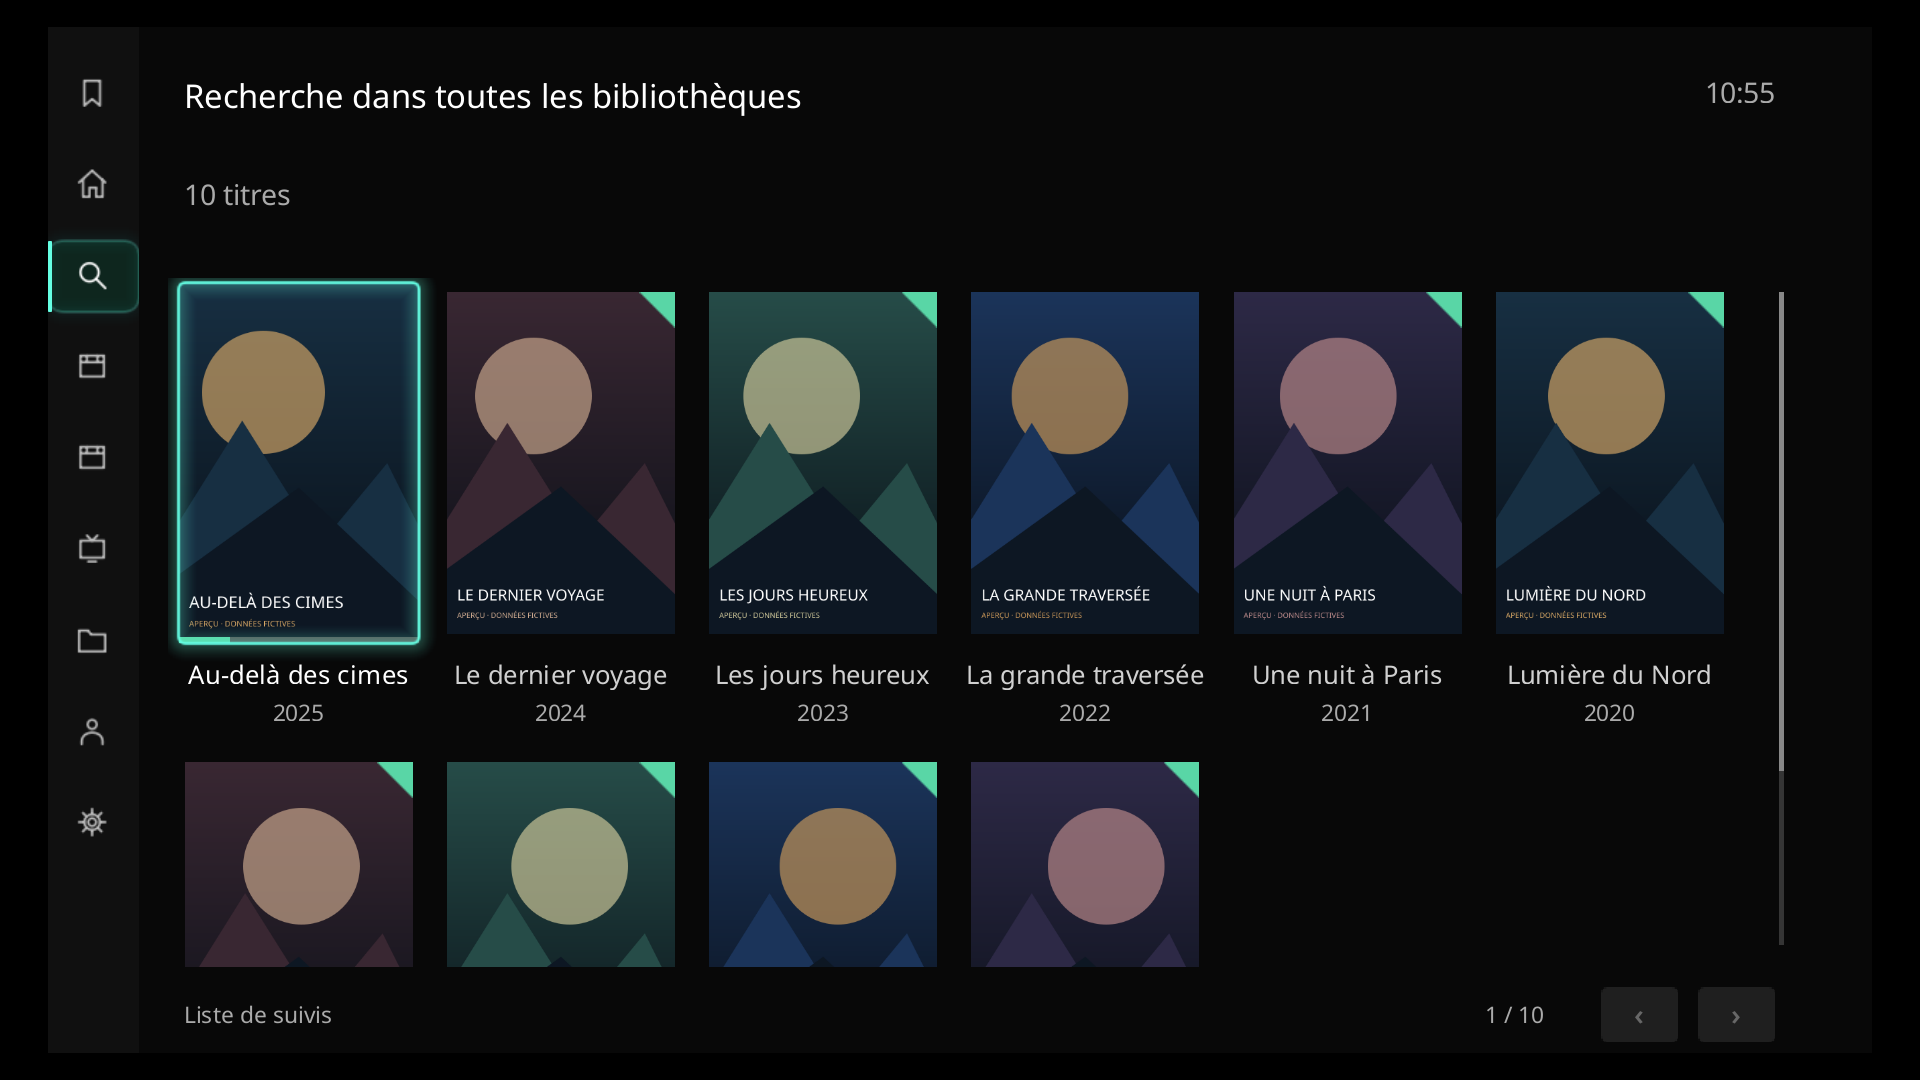
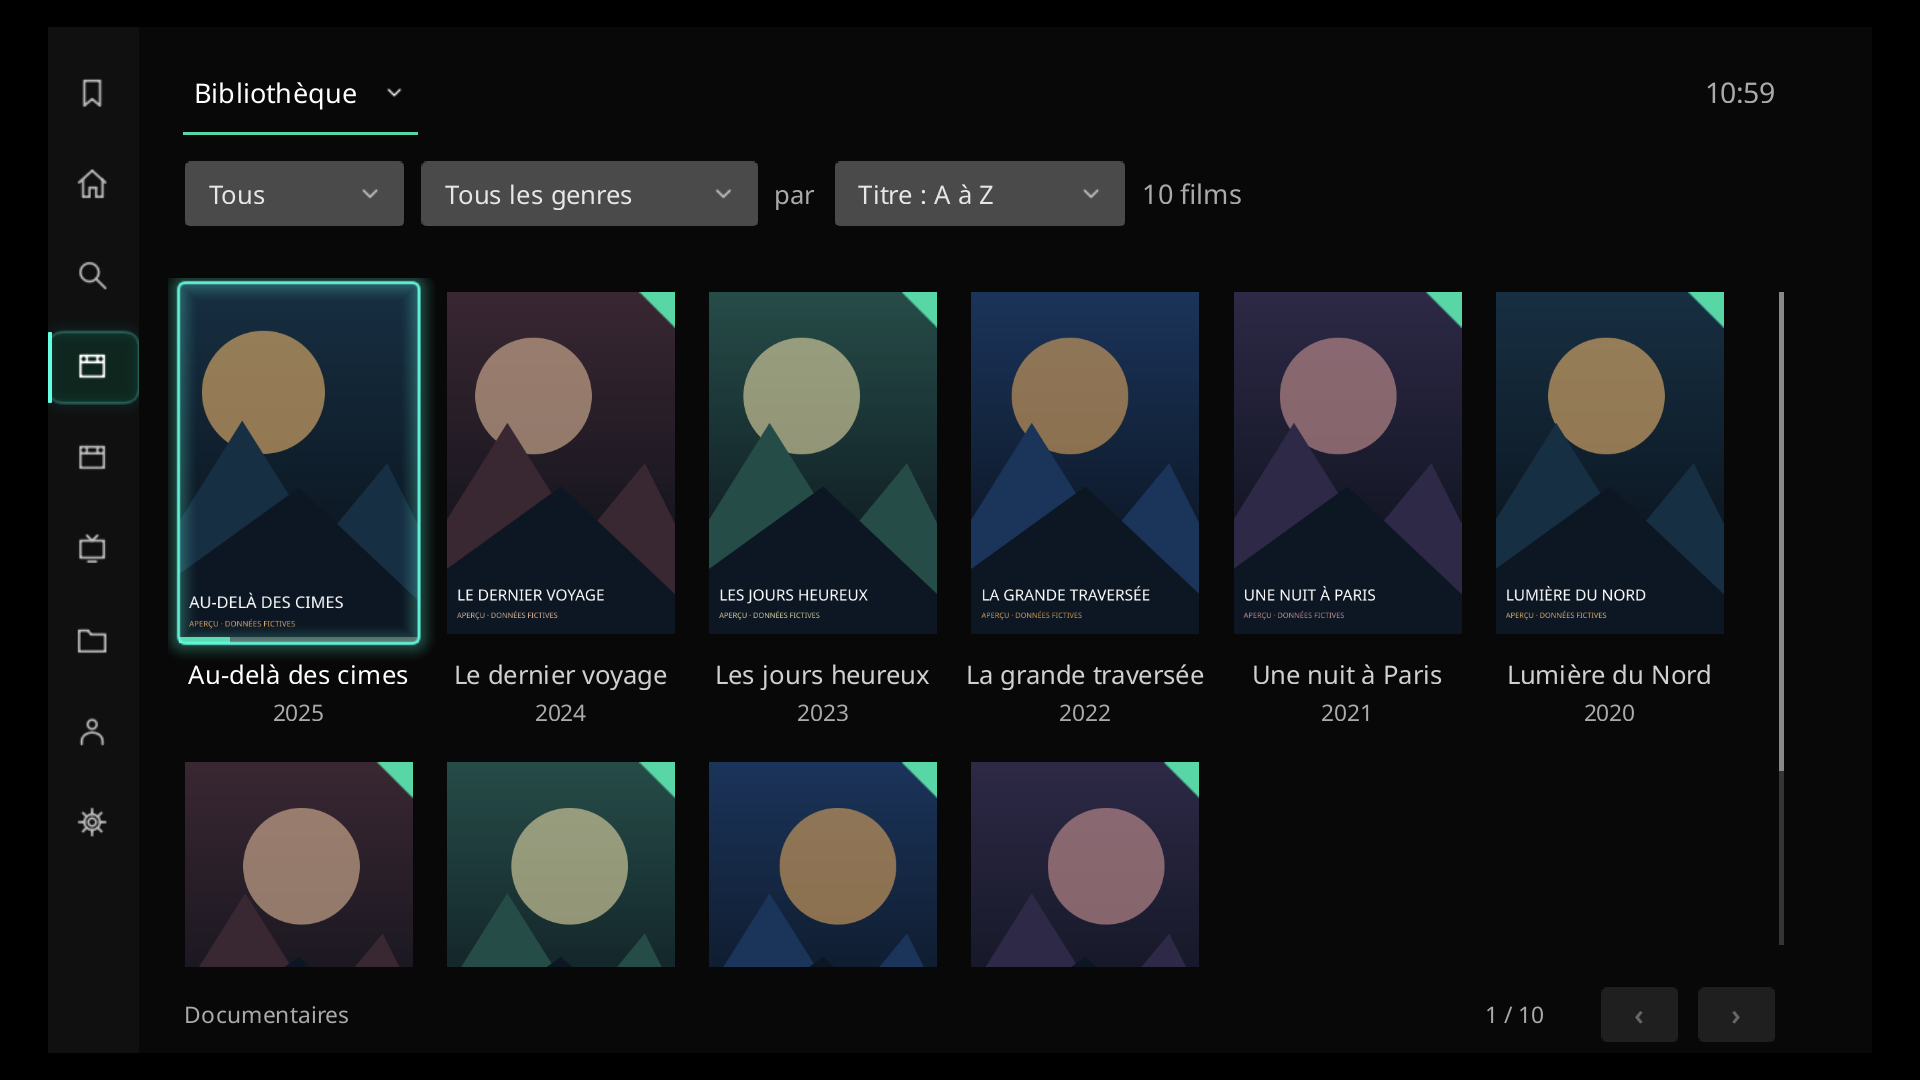
Reset preview navigation before capturing the public library screen

Changed region(s): [[0.0938, 0.0611, 0.625, 0.2139], [0.0, 0.2139, 0.0938, 0.3972], [0.0938, 0.9167, 0.1875, 0.9472]]

diff --git a/tools/preview.py b/tools/preview.py
@@ -221,6 +221,9 @@ view.resize(1920,1080);capture('connexion-1080p')
 key(Qt.Key_Down);key(Qt.Key_Return);assert not service.property('rememberAccount')
 key(Qt.Key_Return);assert service.property('rememberAccount')
 # Final screenshot retains real library data and neutral filters.
+service.setProperty('globalSearch',False);service.setProperty('home',False);service.setProperty('watchlist',False)
+service.setProperty('browsePath','');service.setProperty('history',[])
+service.setProperty('browseTitle',service.property('section').toVariant().get('title','Bibliothèque'))
 service.setProperty('state','library');service.setProperty('view',1);service.setProperty('items',items)
 service.setProperty('searchText','');service.setProperty('filterIndex',0);service.setProperty('sortIndex',1 if '--real' in sys.argv else 0);service.setProperty('genreTitle','Tous les genres')
 service.setProperty('total',data['total'] if '--real' in sys.argv else len(items))
